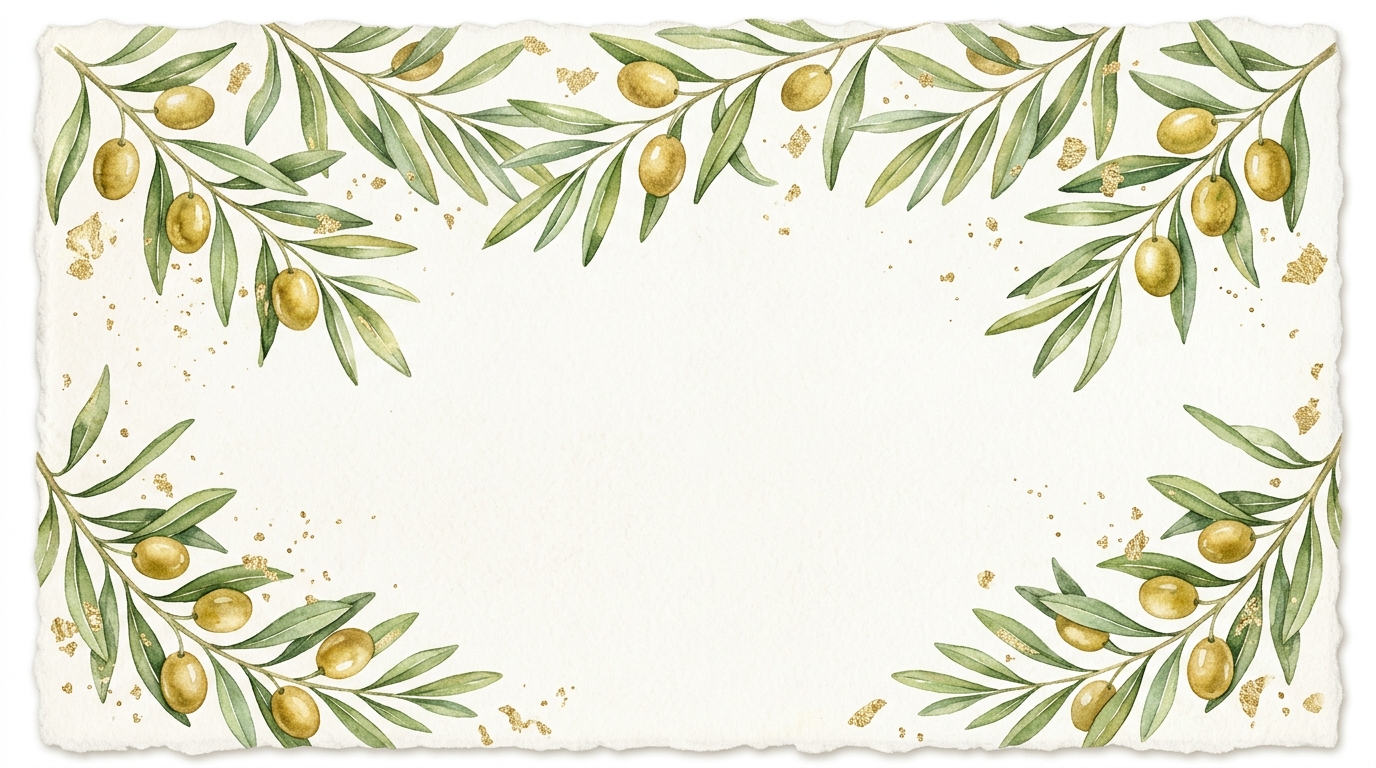
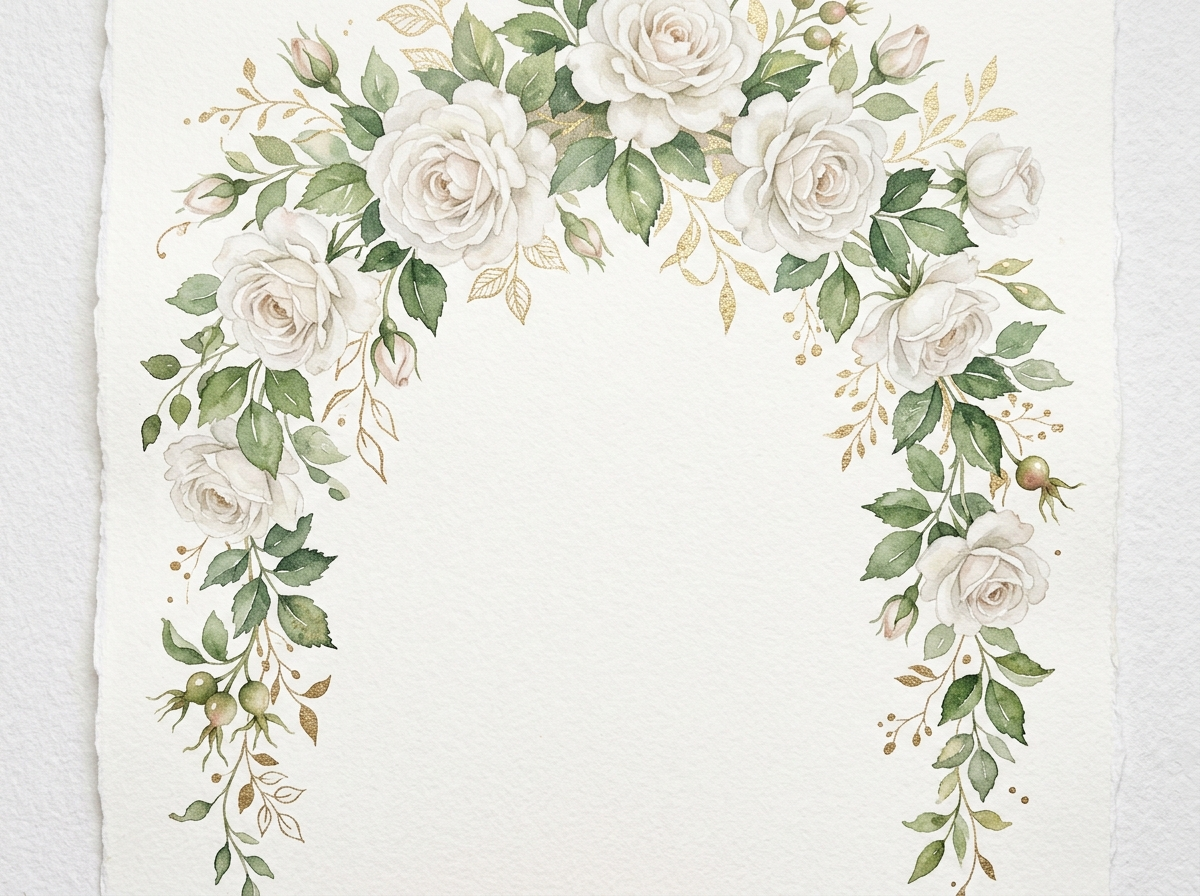
Nova arte em aquarela de ramos de roseiras e pétalas 3D com contraste e profundidade aprimorados

diff --git a/js/three-scene.js b/js/three-scene.js
@@ -1,6 +1,6 @@
 /**
  * CENÁRIO 3D WEBGL COM THREE.JS
- * Efeitos: Pétalas de Rosas Brancas e Rosas em 3D Flutuantes & Partículas de Brilho Pérola e Ouro
+ * Efeitos: Pétalas de Rosas Brancas/Champagne com Sombra Suave, Folhinhas de Roseiras & Partículas Douradas
  */
 
 class Wedding3DScene {
@@ -23,29 +23,29 @@ class Wedding3DScene {
 
     this.initLights();
     this.createPearlAndGoldDust();
-    this.createWhiteRosePetals();
+    this.createWhiteRosePetalsAndLeaves();
     this.bindEvents();
     this.animate();
   }
 
   initLights() {
-    // Luz ambiente suave e pura
-    const ambientLight = new THREE.AmbientLight(0xFFFFFF, 1.3);
+    // Luz ambiente quente e suave que destaca o relevo das pétalas
+    const ambientLight = new THREE.AmbientLight(0xF4EFE6, 1.1);
     this.scene.add(ambientLight);
 
-    // Luz direcional dourada solar
-    const sunLight = new THREE.DirectionalLight(0xFDF8EE, 1.6);
-    sunLight.position.set(20, 40, 30);
+    // Luz solar suave que cria sombra e contorno nas pétalas
+    const sunLight = new THREE.DirectionalLight(0xE5C687, 1.8);
+    sunLight.position.set(25, 35, 25);
     this.scene.add(sunLight);
 
-    // Ponto de luz suave marfim
-    const pointLight = new THREE.PointLight(0xF5EFEB, 1.4, 60);
-    pointLight.position.set(-15, -10, 15);
-    this.scene.add(pointLight);
+    // Ponto de luz sutil de preenchimento
+    const fillLight = new THREE.DirectionalLight(0x7E9271, 0.6);
+    fillLight.position.set(-20, -15, 15);
+    this.scene.add(fillLight);
   }
 
   createPearlAndGoldDust() {
-    const particleCount = 130;
+    const particleCount = 120;
     const geometry = new THREE.BufferGeometry();
     const positions = new Float32Array(particleCount * 3);
     const scales = new Float32Array(particleCount);
@@ -60,16 +60,16 @@ class Wedding3DScene {
     geometry.setAttribute('position', new THREE.BufferAttribute(positions, 3));
     geometry.setAttribute('scale', new THREE.BufferAttribute(scales, 1));
 
-    // Partícula cintilante pérola & ouro
+    // Partícula cintilante ouro & pérola
     const canvas = document.createElement('canvas');
     canvas.width = 32;
     canvas.height = 32;
     const ctx = canvas.getContext('2d');
     const grad = ctx.createRadialGradient(16, 16, 0, 16, 16, 16);
-    grad.addColorStop(0, 'rgba(255, 255, 255, 1)');
-    grad.addColorStop(0.3, 'rgba(245, 235, 210, 0.9)');
-    grad.addColorStop(0.7, 'rgba(212, 175, 55, 0.3)');
-    grad.addColorStop(1, 'rgba(255, 255, 255, 0)');
+    grad.addColorStop(0, 'rgba(255, 248, 220, 1)');
+    grad.addColorStop(0.3, 'rgba(212, 175, 55, 0.9)');
+    grad.addColorStop(0.7, 'rgba(180, 140, 50, 0.3)');
+    grad.addColorStop(1, 'rgba(0, 0, 0, 0)');
     ctx.fillStyle = grad;
     ctx.beginPath();
     ctx.arc(16, 16, 16, 0, Math.PI * 2);
@@ -77,7 +77,7 @@ class Wedding3DScene {
 
     const texture = new THREE.CanvasTexture(canvas);
     const material = new THREE.PointsMaterial({
-      size: 1.1,
+      size: 1.3,
       map: texture,
       transparent: true,
       blending: THREE.AdditiveBlending,
@@ -88,82 +88,96 @@ class Wedding3DScene {
     this.scene.add(this.pearlDust);
   }
 
-  // Criação da geometria curva realista de pétalas de rosas brancas
-  createWhiteRosePetals() {
-    // 1. Curva orgânica da pétala de rosa
+  // Criação de pétalas de rosas brancas e folhinhas de roseira com contraste perfeito
+  createWhiteRosePetalsAndLeaves() {
+    // 1. Geometria de Pétala de Rosa com curvatura natural
     const petalShape = new THREE.Shape();
-    petalShape.moveTo(0, -1.4);
-    petalShape.bezierCurveTo(1.1, -0.6, 1.3, 0.9, 0, 1.8);
-    petalShape.bezierCurveTo(-1.3, 0.9, -1.1, -0.6, 0, -1.4);
+    petalShape.moveTo(0, -1.5);
+    petalShape.bezierCurveTo(1.2, -0.6, 1.4, 0.9, 0, 1.9);
+    petalShape.bezierCurveTo(-1.4, 0.9, -1.2, -0.6, 0, -1.5);
 
-    const extrudeSettings = {
+    const petalSettings = {
       steps: 1,
-      depth: 0.04,
+      depth: 0.06,
       bevelEnabled: true,
-      bevelThickness: 0.03,
-      bevelSize: 0.03,
+      bevelThickness: 0.04,
+      bevelSize: 0.04,
       bevelSegments: 3
     };
-
-    const petalGeometry = new THREE.ExtrudeGeometry(petalShape, extrudeSettings);
+    const petalGeometry = new THREE.ExtrudeGeometry(petalShape, petalSettings);
     petalGeometry.center();
 
-    // Materiais de seda branca, marfim e pérola
-    const whitePetalMaterial = new THREE.MeshStandardMaterial({
-      color: 0xFFFFFF,
-      roughness: 0.3,
-      metalness: 0.05,
+    // 2. Geometria de Folha de Roseira
+    const leafShape = new THREE.Shape();
+    leafShape.moveTo(0, -1.2);
+    leafShape.bezierCurveTo(0.6, -0.6, 0.7, 0.6, 0, 1.5);
+    leafShape.bezierCurveTo(-0.7, 0.6, -0.6, -0.6, 0, -1.2);
+    const leafGeometry = new THREE.ExtrudeGeometry(leafShape, {
+      steps: 1, depth: 0.04, bevelEnabled: true, bevelThickness: 0.02, bevelSize: 0.02
+    });
+    leafGeometry.center();
+
+    // Materiais com sombreamento bem definido e contraste suave no fundo claro
+    const petalMatChampagne = new THREE.MeshStandardMaterial({
+      color: 0xEDE2D5, // Champagne suave com sombra natural
+      roughness: 0.35,
+      metalness: 0.12,
       side: THREE.DoubleSide
     });
 
-    const ivoryPetalMaterial = new THREE.MeshStandardMaterial({
-      color: 0xF9F6F0,
+    const petalMatBlush = new THREE.MeshStandardMaterial({
+      color: 0xE6D5C7, // Branco rosado com profundidade
+      roughness: 0.38,
+      metalness: 0.10,
+      side: THREE.DoubleSide
+    });
+
+    const petalMatIvory = new THREE.MeshStandardMaterial({
+      color: 0xF4ECE1, // Marfim com relevo
       roughness: 0.32,
-      metalness: 0.08,
+      metalness: 0.15,
       side: THREE.DoubleSide
     });
 
-    const champagnePetalMaterial = new THREE.MeshStandardMaterial({
-      color: 0xF5EFEB,
-      roughness: 0.28,
-      metalness: 0.1,
+    const roseLeafMat = new THREE.MeshStandardMaterial({
+      color: 0x627556, // Verde sálvia/oliva de folhas de roseira
+      roughness: 0.45,
+      metalness: 0.18,
       side: THREE.DoubleSide
     });
 
-    const materials = [whitePetalMaterial, ivoryPetalMaterial, champagnePetalMaterial];
+    const petalMats = [petalMatChampagne, petalMatBlush, petalMatIvory];
 
-    // 2. Cria 32 pétalas individuais e botões de rosas brancas flutuantes
-    const petalCount = 32;
-    for (let i = 0; i < petalCount; i++) {
-      const selectedMat = materials[i % materials.length];
-      
-      // Criação de pétala única ou rosa sobreposta
-      const isFullRose = i % 5 === 0;
+    // 3. Cria 36 elementos (pétalas de rosas, mini rosas e folhas de roseiras)
+    const count = 36;
+    for (let i = 0; i < count; i++) {
       let mesh;
+      const isLeaf = i % 6 === 0; // 1 a cada 6 é uma delicada folha de roseira
+      const isFullRose = i % 7 === 0; // Mini botão de rosa
 
-      if (isFullRose) {
-        // Mini Rosa Branca composta por 3 pétalas entrelaçadas
+      if (isLeaf) {
+        mesh = new THREE.Mesh(leafGeometry, roseLeafMat);
+      } else if (isFullRose) {
         const roseGroup = new THREE.Group();
         for (let p = 0; p < 3; p++) {
-          const petal = new THREE.Mesh(petalGeometry, selectedMat);
+          const petal = new THREE.Mesh(petalGeometry, petalMats[p % petalMats.length]);
           petal.rotation.z = (p * Math.PI * 2) / 3;
-          petal.rotation.x = 0.3;
-          petal.scale.set(0.7, 0.7, 0.7);
+          petal.rotation.x = 0.35;
+          petal.scale.set(0.75, 0.75, 0.75);
           roseGroup.add(petal);
         }
         mesh = roseGroup;
       } else {
-        // Pétala individual de rosa branca
-        mesh = new THREE.Mesh(petalGeometry, selectedMat);
+        mesh = new THREE.Mesh(petalGeometry, petalMats[i % petalMats.length]);
       }
-      
+
       mesh.position.set(
-        (Math.random() - 0.5) * 48,
-        (Math.random() - 0.5) * 48,
+        (Math.random() - 0.5) * 50,
+        (Math.random() - 0.5) * 50,
         (Math.random() - 0.5) * 22
       );
 
-      const scale = Math.random() * 0.5 + 0.55;
+      const scale = Math.random() * 0.55 + 0.65;
       mesh.scale.set(scale, scale, scale);
 
       mesh.rotation.set(
@@ -173,12 +187,12 @@ class Wedding3DScene {
       );
 
       mesh.userData = {
-        speedY: (Math.random() * 0.025 + 0.012) * -1,
+        speedY: (Math.random() * 0.024 + 0.012) * -1,
         speedRotX: (Math.random() - 0.5) * 0.018,
         speedRotY: (Math.random() - 0.5) * 0.022,
-        speedRotZ: (Math.random() - 0.5) * 0.015,
+        speedRotZ: (Math.random() - 0.5) * 0.016,
         swaySpeed: Math.random() * 0.8 + 0.6,
-        swayAmplitude: Math.random() * 1.8 + 1.0,
+        swayAmplitude: Math.random() * 1.8 + 1.2,
         initialX: mesh.position.x
       };
 
@@ -217,20 +231,20 @@ class Wedding3DScene {
 
     const elapsedTime = this.clock.getElapsedTime();
 
-    // Interpolação suave do mouse / câmera
+    // Interpolação suave da câmera
     this.mouse.x += (this.mouse.targetX - this.mouse.x) * 0.05;
     this.mouse.y += (this.mouse.targetY - this.mouse.y) * 0.05;
     this.camera.position.x = this.mouse.x;
     this.camera.position.y = -this.mouse.y;
     this.camera.lookAt(0, 0, 0);
 
-    // Partículas pérola
+    // Partículas ouro e pérola
     if (this.pearlDust) {
       this.pearlDust.rotation.y = elapsedTime * 0.025;
       this.pearlDust.rotation.x = Math.sin(elapsedTime * 0.02) * 0.08;
     }
 
-    // Flutuação realista e suave das pétalas de rosas brancas
+    // Movimento e queda suave das pétalas de rosas e folhinhas de roseira
     this.petals.forEach((petal) => {
       petal.position.y += petal.userData.speedY;
       petal.position.x = petal.userData.initialX + Math.sin(elapsedTime * petal.userData.swaySpeed) * petal.userData.swayAmplitude;
@@ -239,10 +253,10 @@ class Wedding3DScene {
       petal.rotation.y += petal.userData.speedRotY;
       petal.rotation.z += petal.userData.speedRotZ;
 
-      // Quando a pétala atinge o fundo, reaparece suavemente no topo
+      // Quando atinge a base, reaparece suavemente no topo
       if (petal.position.y < -26) {
         petal.position.y = 26;
-        petal.position.x = (Math.random() - 0.5) * 48;
+        petal.position.x = (Math.random() - 0.5) * 50;
         petal.userData.initialX = petal.position.x;
       }
     });

diff --git a/css/main.css b/css/main.css
@@ -283,7 +283,7 @@ body {
   width: 100%;
   height: 100%;
   pointer-events: none;
-  opacity: 0.18;
+  opacity: 0.38;
   background-image: url('../assets/images/hero_botanical.jpg');
   background-position: center top;
   background-size: cover;
